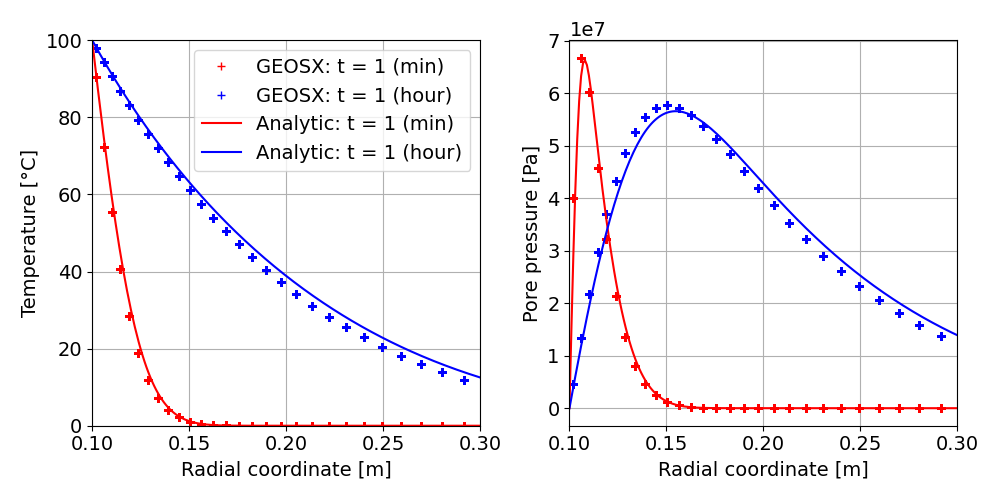
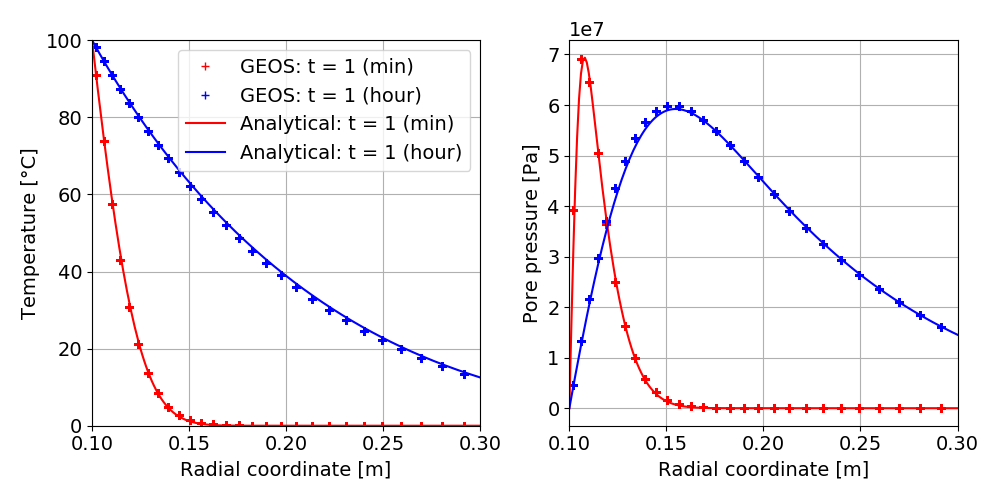
update python scripts and figures

diff --git a/src/docs/sphinx/advancedExamples/validationStudies/wellboreProblems/thermoPoroElasticWellbore/THM_wellbore_stress.py b/src/docs/sphinx/advancedExamples/validationStudies/wellboreProblems/thermoPoroElasticWellbore/THM_wellbore_stress.py
@@ -14,7 +14,7 @@ def stressRotation(stress, phi_x):
 
 def main():
 	# Material properties from input XML file
-	xmlFilePathPrefix = "../../../../../../../inputFiles/wellbore/THM_wellbore"
+	xmlFilePathPrefix = "../../../../../../../inputFiles/wellbore/ThermoPoroElasticWellbore"
 
 	xmlData = analyticalResults.getDataFromXML(xmlFilePathPrefix)
 
@@ -76,26 +76,26 @@ def main():
 	plt.subplot(1,2,1)
 
 	plt.plot( rCoord,
-			  stress_rr_total[9, :],        
+			  stress_rr_total[10, :],        
 			  'r+',
-			  label='GEOSX: t = 1 (min)')
+			  label='GEOS: t = 1 (min)')
 
 	plt.plot( rCoord,
-			  stress_rr_total[23, :],        
+			  stress_rr_total[24, :],        
 			  'b+',
-			  label='GEOSX: t = 1 (hour)')
+			  label='GEOS: t = 1 (hour)')
 	
 	plt.subplot(1,2,2)
 
 	plt.plot( rCoord,
-			  stress_tt_total[9, :],        
+			  stress_tt_total[10, :],        
 			  'r+',
-			  label='GEOSX: t = 1 (min)')
+			  label='GEOS: t = 1 (min)')
 
 	plt.plot( rCoord,
-			  stress_tt_total[23, :],        
+			  stress_tt_total[24, :],        
 			  'b+',
-			  label='GEOSX: t = 1 (hour)')
+			  label='GEOS: t = 1 (hour)')
 	
 	# Plot analytical results at one minute
 	t = 60 #s
@@ -105,13 +105,13 @@ def main():
 	plt.plot( r_anal,
 			  sig_rr_anal,        
 			  'r-',
-			  label='Analytic: t = 1 (min)')
+			  label='Analytical: t = 1 (min)')
 
 	plt.subplot(1,2,2)
 	plt.plot( r_anal,
 			  sig_tt_anal,        
 			  'r-',
-			  label='Analytic: t = 1 (min)')
+			  label='Analytical: t = 1 (min)')
 
 	# Plot analytical results at one hour
 	t = 3600 #s
@@ -121,13 +121,13 @@ def main():
 	plt.plot( r_anal,
 			  sig_rr_anal,        
 			  'b-',
-			  label='Analytic: t = 1 (hour)')
+			  label='Analytical: t = 1 (hour)')
 
 	plt.subplot(1,2,2)
 	plt.plot( r_anal,
 			  sig_tt_anal,        
 			  'b-',
-			  label='Analytic: t = 1 (hour)')
+			  label='Analytical: t = 1 (hour)')
 
 	plt.subplot(1,2,1)
 	plt.grid()
@@ -138,7 +138,7 @@ def main():
 
 	plt.subplot(1,2,2)
 	plt.grid()
-	plt.ylabel('Tangent stress [Pa]')
+	plt.ylabel('Tangential stress [Pa]')
 	plt.xlabel('Radial coordinate [m]')
 	plt.xlim(0.1,0.3)
 	#plt.ylim(0,70e6)

diff --git a/src/docs/sphinx/advancedExamples/validationStudies/wellboreProblems/thermoPoroElasticWellbore/THM_wellbore_displacement.py b/src/docs/sphinx/advancedExamples/validationStudies/wellboreProblems/thermoPoroElasticWellbore/THM_wellbore_displacement.py
@@ -16,8 +16,8 @@ def main():
 	nNodes = center.shape[1]
 	xCoord = center[0, 0:nNodes, 0]
 	yCoord = center[0, 0:nNodes, 1]	
-	ux_60s = displacement[9, 0:nNodes, 0] # the index for time step at 60s is 9
-	ux_3600s = displacement[23, 0:nNodes, 0] # the index for time step at 3600s is 23
+	ux_60s = displacement[10, 0:nNodes, 0] # the index for time step at 60s is 10
+	ux_3600s = displacement[24, 0:nNodes, 0] # the index for time step at 3600s is 24
 
 	rCoord, ur_60s, ur_3600s = [], [], []
 
@@ -33,12 +33,12 @@ def main():
 	plt.plot( rCoord,
 			  ur_60s,        
 			  'r+',
-			  label='GEOSX: t = 1 (min)')
+			  label='GEOS: t = 1 (min)')
 
 	plt.plot( rCoord,
 			  ur_3600s,        
 			  'b+',
-			  label='GEOSX: t = 1 (hour)')
+			  label='GEOS: t = 1 (hour)')
 	
 	# Plot analytical results at one minute
 	t = 60 #s
@@ -47,7 +47,7 @@ def main():
 	plt.plot( r_anal,
 			  ur_anal * 1e6, # converted to um        
 			  'r-',
-			  label='Analytic: t = 1 (min)')
+			  label='Analytical: t = 1 (min)')
 
 	# Plot analytical results at one hour
 	t = 3600 #s
@@ -56,7 +56,7 @@ def main():
 	plt.plot( r_anal,
 			  ur_anal * 1e6, # converted to um        
 			  'b-',
-			  label='Analytic: t = 1 (hour)')
+			  label='Analytical: t = 1 (hour)')
 
 	plt.grid()
 	plt.ylabel(r'Displacement [$\mu$m]')

diff --git a/src/docs/sphinx/advancedExamples/validationStudies/wellboreProblems/thermoPoroElasticWellbore/THM_wellbore_temperature_pressure.py b/src/docs/sphinx/advancedExamples/validationStudies/wellboreProblems/thermoPoroElasticWellbore/THM_wellbore_temperature_pressure.py
@@ -27,23 +27,23 @@ def main():
 	plt.subplot(1,2,1)
 
 	plt.plot( rCoord,
-			  temperature[9, 0:nElements], # index of the time step at 60s is 9       
+			  temperature[10, 0:nElements], # index of the time step at 60s is 10       
 			  'r+',
-			  label='GEOSX: t = 1 (min)')
+			  label='GEOS: t = 1 (min)')
 
 	plt.plot( rCoord,
-			  temperature[23, 0:nElements], # index of the time step at 3600s is 23       
+			  temperature[24, 0:nElements], # index of the time step at 3600s is 24       
 			  'b+',
-			  label='GEOSX: t = 1 (hour)')
+			  label='GEOS: t = 1 (hour)')
 	
 	plt.subplot(1,2,2)
 
 	plt.plot( rCoord,
-			  pressure[9, 0:nElements],        
+			  pressure[10, 0:nElements],        
 			  'r+')
 
 	plt.plot( rCoord,
-			  pressure[23, 0:nElements],        
+			  pressure[24, 0:nElements],        
 			  'b+')
 	
 	# Plot analytical results at one minute
@@ -54,7 +54,7 @@ def main():
 	plt.plot( r_anal,
 			  T_anal,        
 			  'r-',
-			  label='Analytic: t = 1 (min)')
+			  label='Analytical: t = 1 (min)')
 
 	plt.subplot(1,2,2)
 	plt.plot( r_anal,
@@ -69,7 +69,7 @@ def main():
 	plt.plot( r_anal,
 			  T_anal,        
 			  'b-',
-			  label='Analytic: t = 1 (hour)')
+			  label='Analytical: t = 1 (hour)')
 
 	plt.subplot(1,2,2)
 	plt.plot( r_anal,

diff --git a/src/docs/sphinx/advancedExamples/validationStudies/wellboreProblems/thermoPoroElasticWellbore/analyticalResults.py b/src/docs/sphinx/advancedExamples/validationStudies/wellboreProblems/thermoPoroElasticWellbore/analyticalResults.py
@@ -45,7 +45,7 @@ def getDataFromXML(xmlFilePathPrefix):
 	return [ri, Ti, drainedBulkModulusRock, defaultShearModulus, defaultThermalExpansionCoefficient, defaultReferencePorosity, grainBulkModulus, fluidCompressibility, fluidViscosity, fluidThermalExpansionCoefficient, permeability, thermalConductivity, volumetricHeatCapacity]
 
 def analyticalResults(t):
-	xmlFilePathPrefix = "../../../../../../../inputFiles/wellbore/THM_wellbore"
+	xmlFilePathPrefix = "../../../../../../../inputFiles/wellbore/ThermoPoroElasticWellbore"
 
 	xmlData = getDataFromXML(xmlFilePathPrefix)
 
